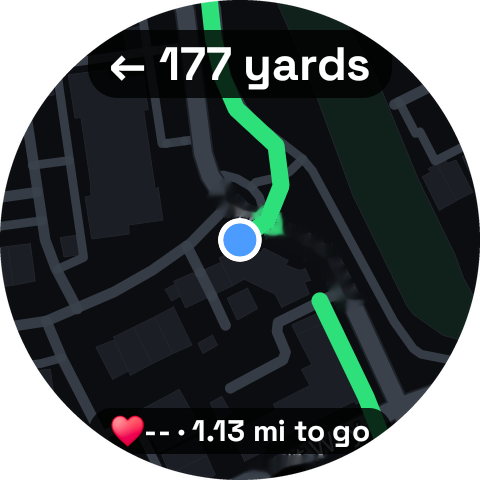
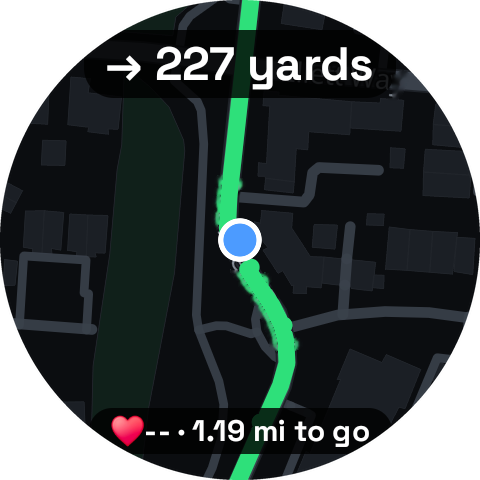
Newer watch screenshots, with the run controls
Claude-Session: https://claude.ai/code/session_01XrJUbVC5gStKPC6DEWPtnC

Changed region(s): [[0.0, 0.0, 0.9688, 1.0], [0.3125, 0.9375, 0.3438, 0.9688], [0.2812, 0.0312, 0.3125, 0.0625]]

diff --git a/docs/watch-guide.md b/docs/watch-guide.md
@@ -32,6 +32,8 @@ For sound, pair your earphones with the watch. The voice talks over music playin
 
 <img src="images/watch-run-map.png" alt="Following a route on the watch" width="200" align="right">
 
+<img src="images/watch-run-controls.png" alt="The controls showing during a run" width="200" align="right">
+
 - **Tap the screen** to show the controls. They hide again after a few seconds.
   - **Pause** and **Stop** at the bottom.
   - 🌙 / ☀ switches night and day map colours.

diff --git a/README.md b/README.md
@@ -19,6 +19,8 @@ The app is free. If it gets you moving and you'd like to say thanks, you can [bu
   <img src="docs/images/watch-home.png" alt="The watch app's home menu" width="200">
   &nbsp;&nbsp;
   <img src="docs/images/watch-run-map.png" alt="Following a route on the watch" width="200">
+  &nbsp;&nbsp;
+  <img src="docs/images/watch-run-controls.png" alt="The watch controls: pause, stop, day or night map, and change view" width="200">
 </p>
 
 ## What it does
